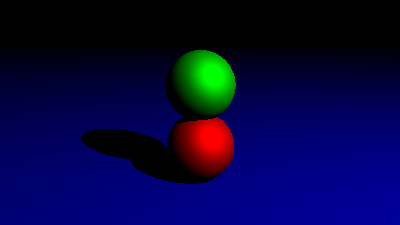
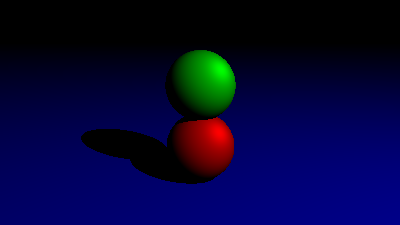
rename V_dot to dot and make it a class static.
This makes lots more sense, because V_dot wasn't changing the Vector's state. Having it
as a static method enforces this fact.

Changed region(s): [[0.45, 0.2489, 0.57, 0.4667], [0.45, 0.5289, 0.57, 0.7156]]

diff --git a/raytracer/vector.php b/raytracer/vector.php
@@ -87,8 +87,15 @@ class Vector {
     return $this;
   }
 
-  public function V_dot(Vector $v2) {
-    return ($this->x * $v2->x + $this->y * $v2->y + $this->z * $v2->z);
+  /**
+   * Returns the dot product of two vectors. This is
+   * also cos(alpha) * ||v1|| * ||v2||, where
+   * alpha is the angle between v1 and v2.
+   *
+   * @return float
+   */
+  public static function dot(Vector $v1, Vector $v2) {
+    return ($v1->x * $v2->x + $v1->y * $v2->y + $v1->z * $v2->z);
   }
 
   public function V_cross(Vector $v2) {
@@ -139,7 +146,7 @@ class Vector {
 
     $r = clone $i;
     $t = clone $n;
-    $t->K_mul(-2 * $r->V_dot($t));
+    $t->K_mul(-2 * Vector::dot($r, $t));
     $r->V_add($t);
     $r->assertNormalized();
     return $r;

diff --git a/raytracer/renderers/phong_renderer.php b/raytracer/renderers/phong_renderer.php
@@ -95,13 +95,13 @@ class PhongRenderer extends Renderer {
             }
 
             if ($hits_light) {
-              $diffuse_shading = max($new_ray->getDirection()->V_dot($r['n']), 0);
+              $diffuse_shading = max(Vector::dot($new_ray->getDirection(), $r['n']), 0);
 
               $reflected_ray = Vector::reflectedRay(
                 $ray->getDirection(),
                 $r['n']);
 
-              $specular_shading = max($new_ray->getDirection()->V_dot($r['n']), 0);
+              $specular_shading = max(Vector::dot($new_ray->getDirection(), $r['n']), 0);
               $specular_shading = pow($specular_shading, 16);
 
               $c = clone $obj->getColor();

diff --git a/raytracer/objects/plane.php b/raytracer/objects/plane.php
@@ -37,12 +37,12 @@ class Plane extends Object {
   }
 
   public function intersect(Ray $ray, $compute_point, $compute_normal) {
-    $d = -$this->position->V_dot($this->normal);
-    $denom = $this->normal->V_dot($ray->getDirection());
+    $d = -Vector::dot($this->position, $this->normal);
+    $denom = Vector::dot($this->normal, $ray->getDirection());
     if ($denom == 0) {
       return null;
     }
-    $num = -$d - $this->normal->V_dot($ray->getOrigin());
+    $num = -$d - Vector::dot($this->normal, $ray->getOrigin());
     $t = $num / $denom;
 
     if ($t < 0) {

diff --git a/raytracer/objects/sphere.php b/raytracer/objects/sphere.php
@@ -35,8 +35,8 @@ class Sphere extends Object {
     $dst = clone $ray->getOrigin();
     $dst->V_sub($this->position);
 
-    $b = $dst->V_dot($ray->getDirection());
-    $c = $dst->V_dot($dst) - $this->radius * $this->radius;
+    $b = Vector::dot($dst, $ray->getDirection());
+    $c = Vector::dot($dst, $dst) - $this->radius * $this->radius;
     $d = $b * $b - $c;
     if ($d < 0) {
       return null;

diff --git a/raytracer/renderers/diffuse_renderer.php b/raytracer/renderers/diffuse_renderer.php
@@ -95,7 +95,7 @@ class DiffuseRenderer extends Renderer {
             }
 
             if ($hits_light) {
-              $shading = max($new_ray->getDirection()->V_dot($r['n']), 0);
+              $shading = max(Vector::dot($new_ray->getDirection(), $r['n']), 0);
               $c = clone $obj->getColor();
               $color = $c->K_mul($shading);
             } else {
